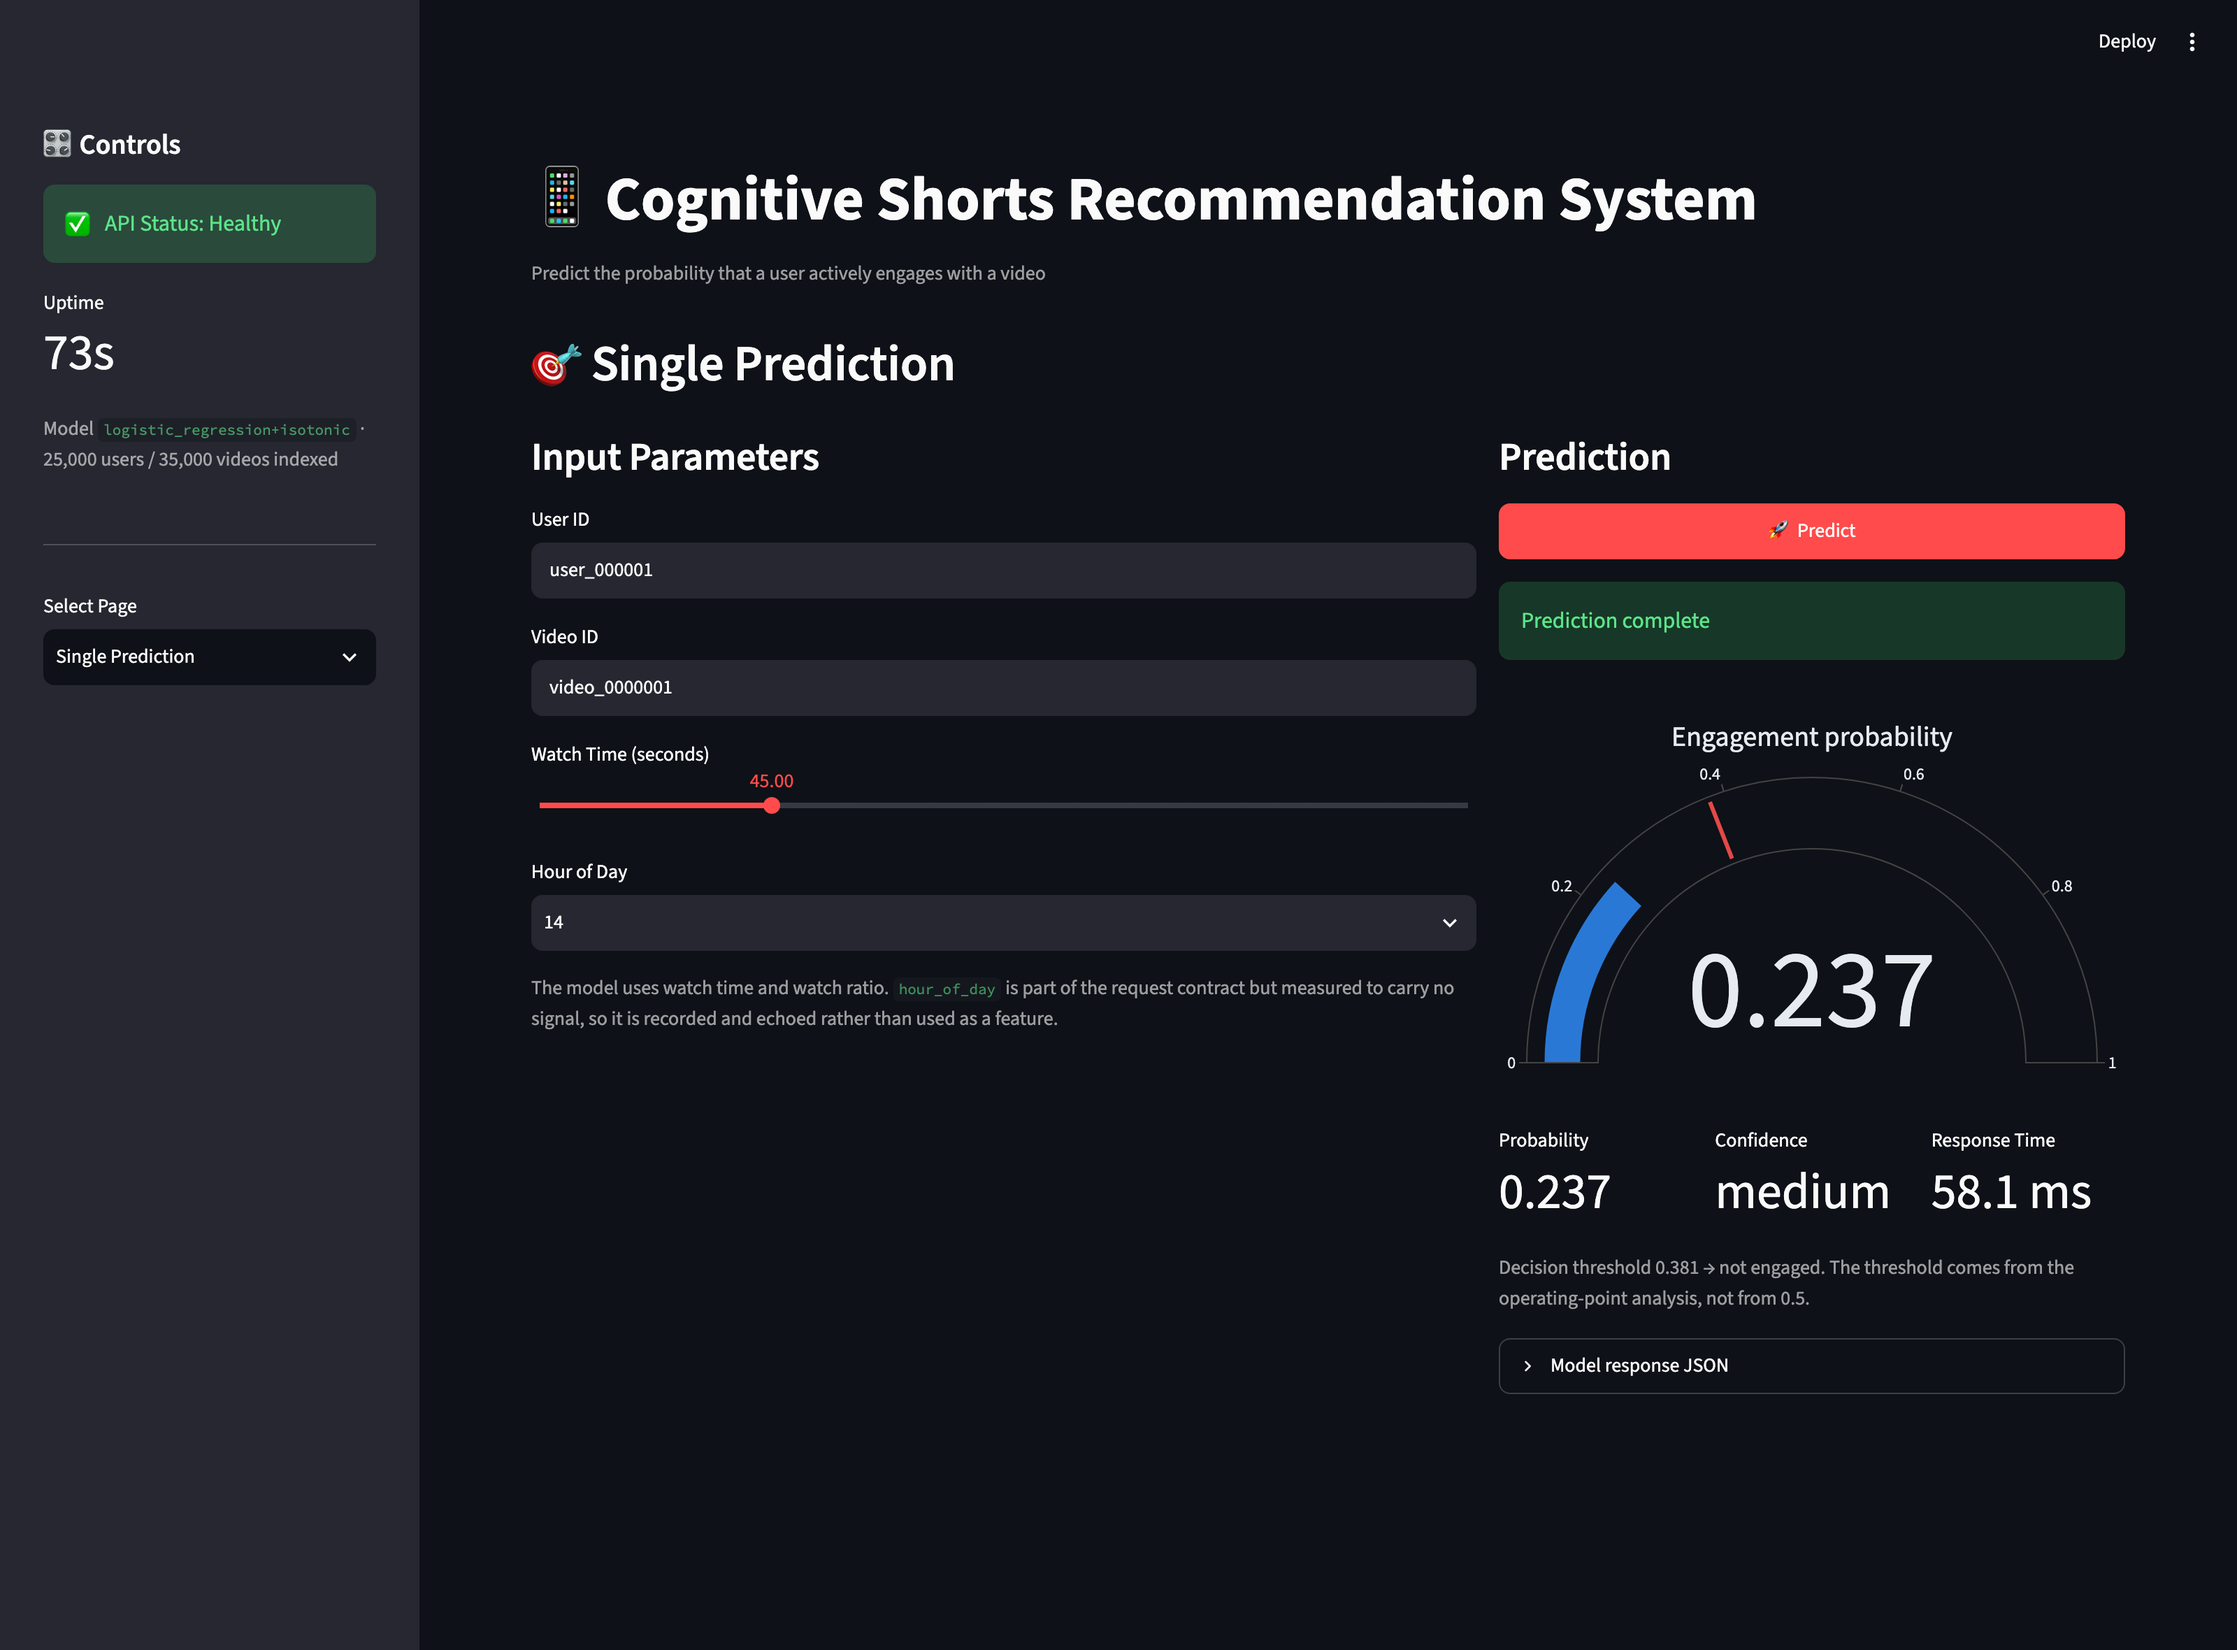
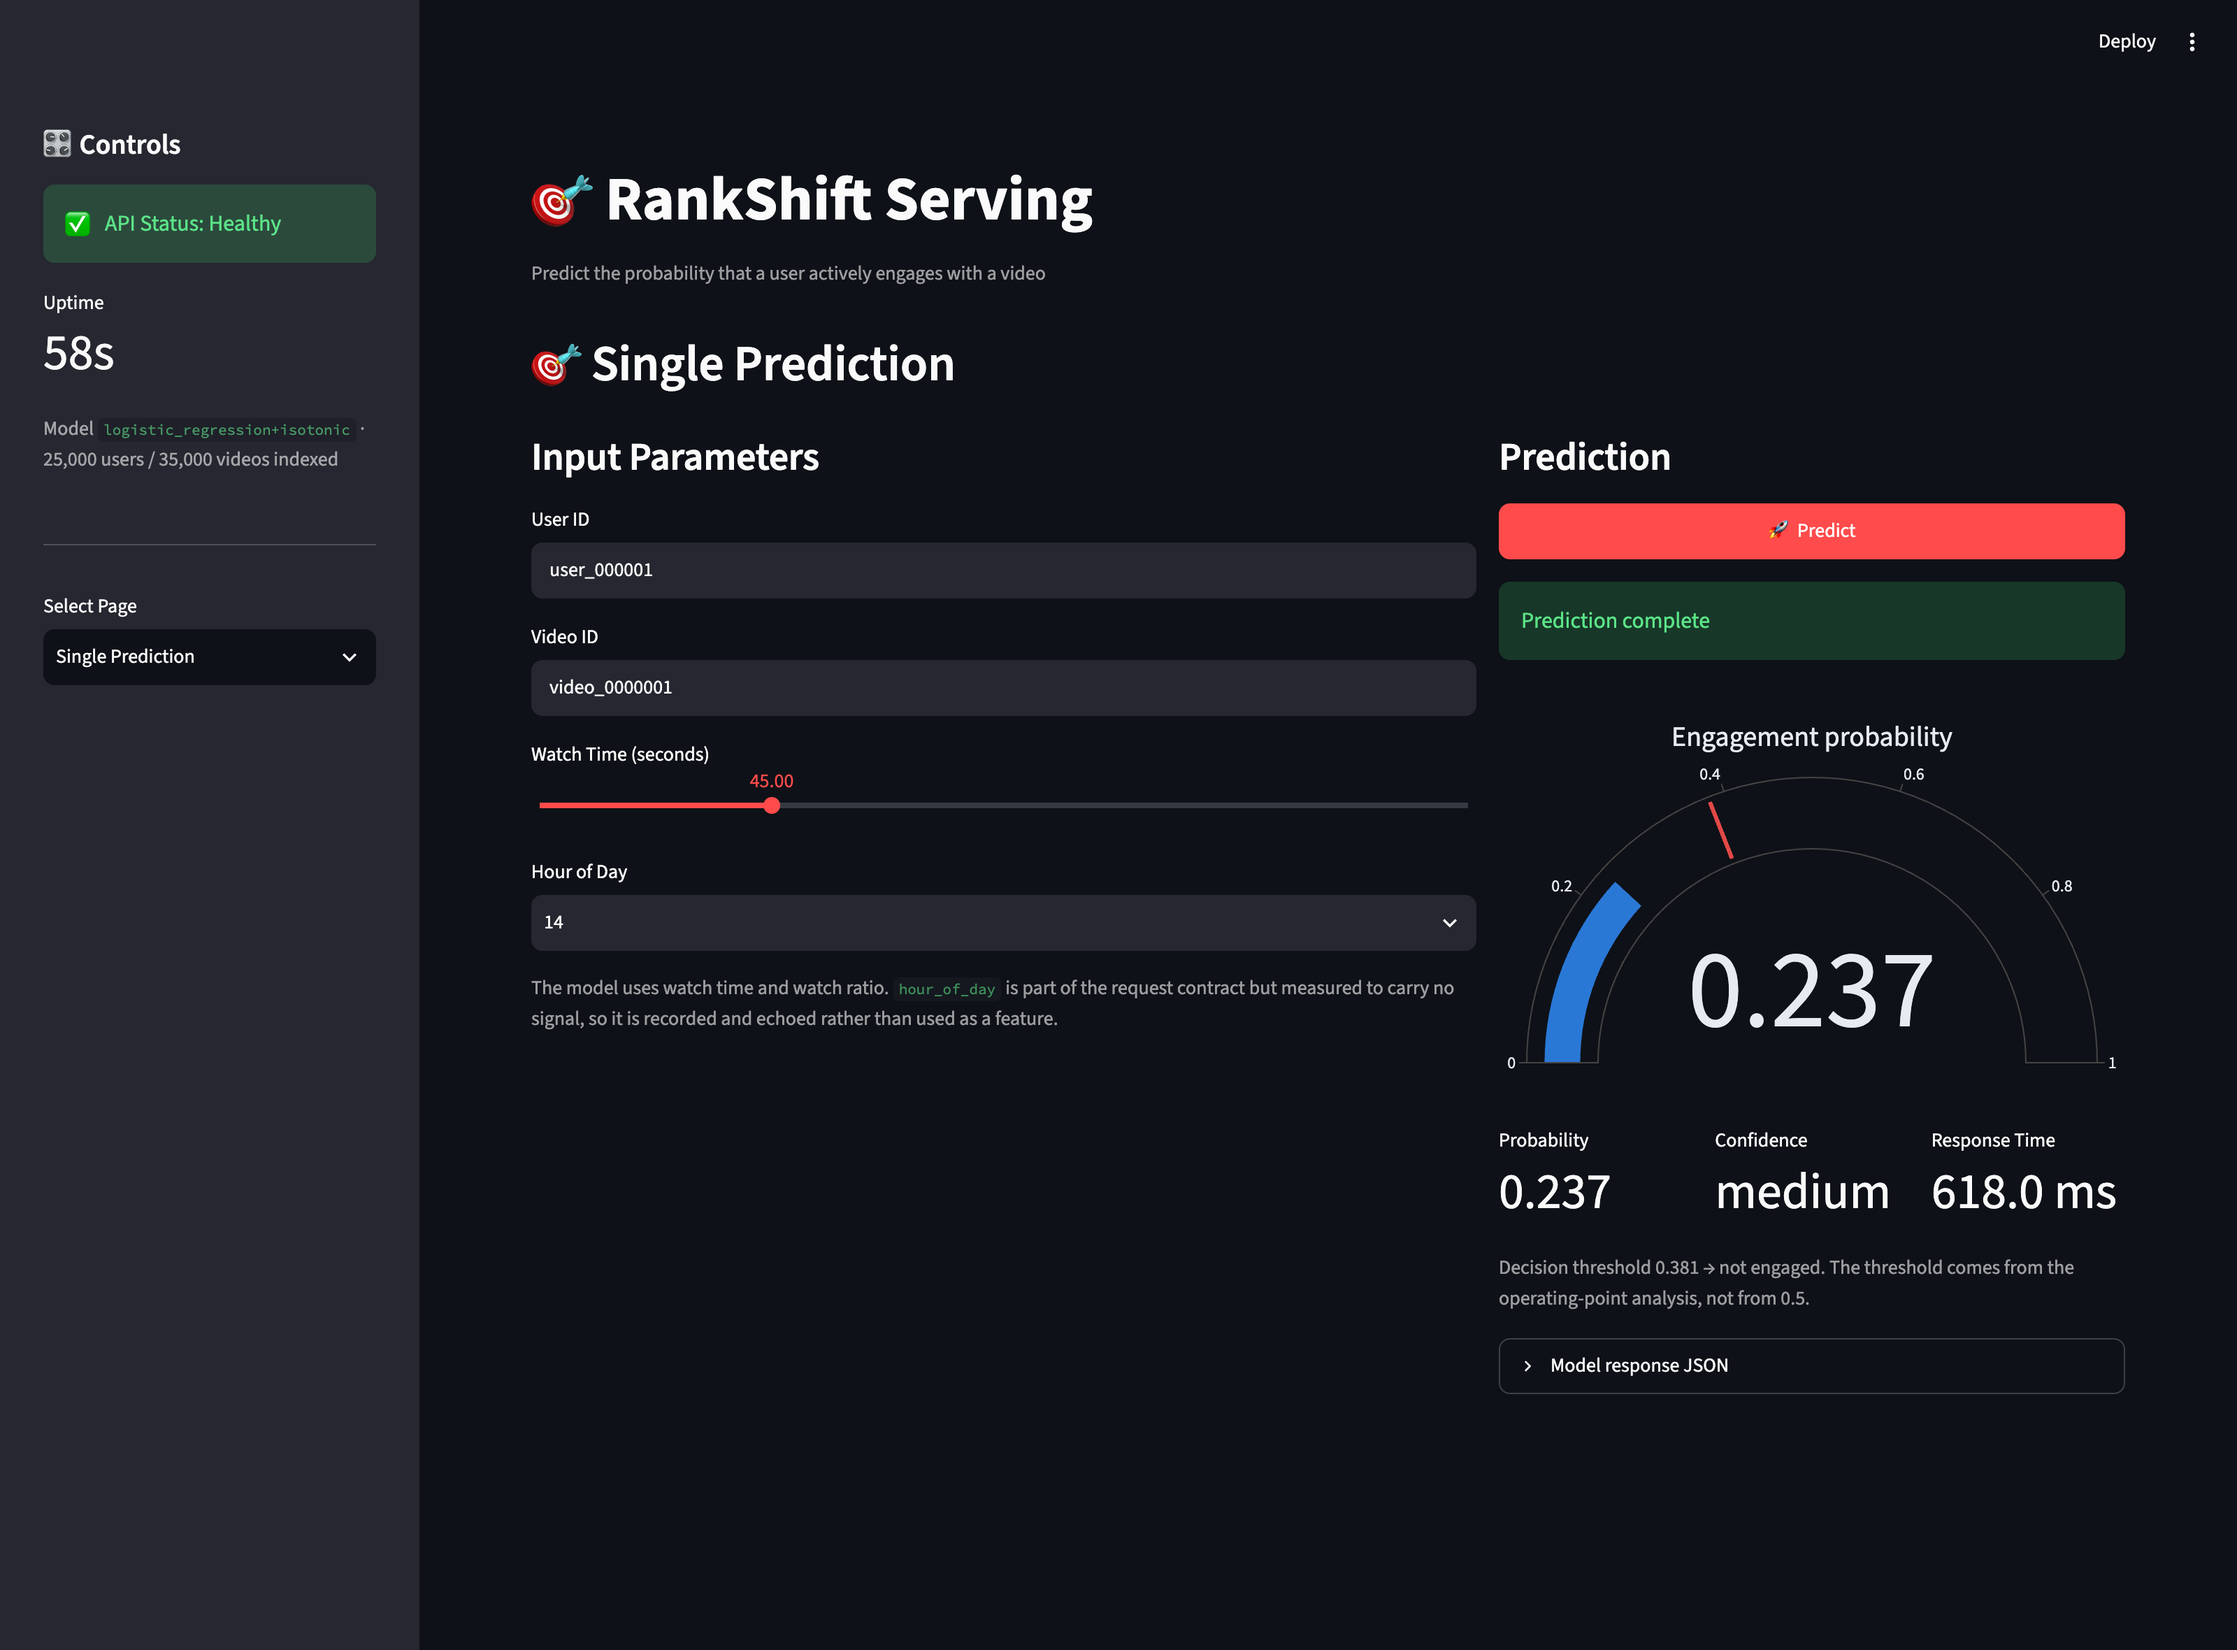
Rename the system to RankShift Serving
The four services are the serving stack behind RankShift and now carry
its name: page titles, API titles, package docstrings, specs and README
headers. Screenshots re-captured from the running apps.

Changed region(s): [[0.2188, 0.0928, 0.7812, 0.1547], [0.875, 0.7114, 0.9375, 0.7424]]

diff --git a/app.py b/app.py
@@ -21,7 +21,7 @@ CLIENT_ERROR = "__client_error__"
 USER_ID_PATTERN = re.compile(r"user_[A-Za-z0-9_-]+")
 VIDEO_ID_PATTERN = re.compile(r"video_[A-Za-z0-9_-]+")
 
-st.set_page_config(page_title="Cognitive Shorts", page_icon="📱", layout="wide")
+st.set_page_config(page_title="RankShift Serving", page_icon="🎯", layout="wide")
 
 
 def failed(response: dict[str, Any]) -> str | None:
@@ -77,7 +77,7 @@ def validate_inputs(user_id: str, video_id: str) -> list[str]:
     return problems
 
 
-st.title("📱 Cognitive Shorts Recommendation System")
+st.title("🎯 RankShift Serving")
 st.caption("Predict the probability that a user actively engages with a video")
 
 # A shareable demo link. `?demo=1` fills a valid request and predicts it;

diff --git a/src/single_prediction/api.py b/src/single_prediction/api.py
@@ -128,7 +128,7 @@ def create_app(
     videos_path: Path = VIDEOS_PATH,
 ) -> FastAPI:
     app = FastAPI(
-        title="Cognitive Shorts Prediction API",
+        title="RankShift Serving — Prediction API",
         version=__version__,
         description=(
             "Single-interaction engagement prediction.\n\n"

diff --git a/src/single_prediction/__init__.py b/src/single_prediction/__init__.py
@@ -1,3 +1,3 @@
-"""Cognitive Shorts single-prediction package."""
+"""RankShift Serving single-prediction package."""
 
 __version__ = "1.0.0"

diff --git a/README.md b/README.md
@@ -1,4 +1,4 @@
-# Cognitive Shorts Recommendation System
+# RankShift Serving — Single Prediction
 
 [![tests](https://github.com/PSCRedefine/SinglePrediction/actions/workflows/tests.yml/badge.svg)](https://github.com/PSCRedefine/SinglePrediction/actions/workflows/tests.yml)
 
